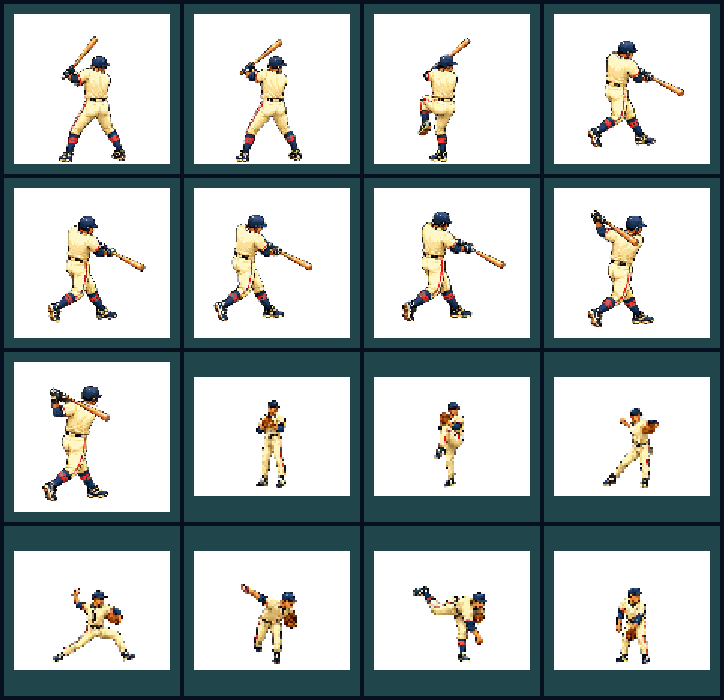
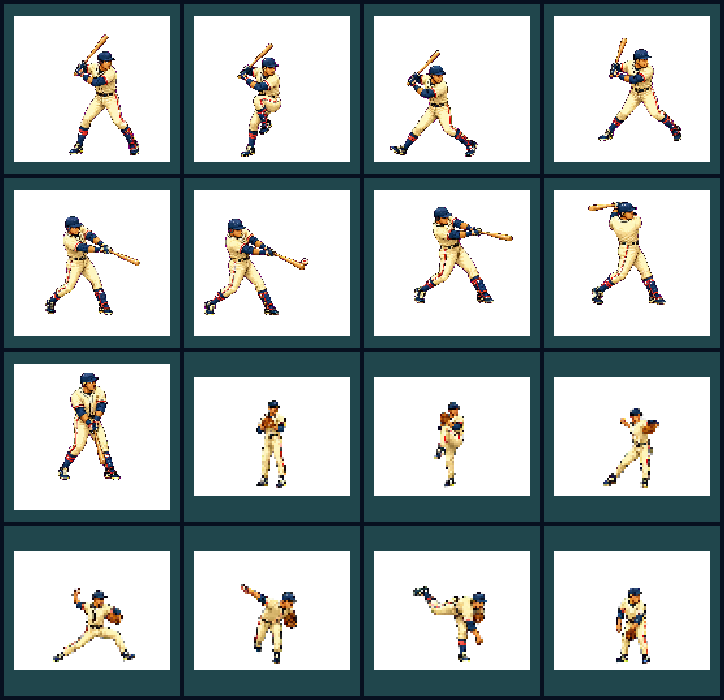
Match classic pitcher-batter camera

diff --git a/prototypes/diamond-dynasty/art-review.html b/prototypes/diamond-dynasty/art-review.html
@@ -74,10 +74,10 @@
       }
       .field-batter {
         position: absolute;
-        left: 11.71875%;
-        top: 41.9643%;
-        width: 40.625%;
-        height: 44.6429%;
+        left: 52.734375%;
+        top: 47.321429%;
+        width: 46.875%;
+        height: 50%;
         image-rendering: pixelated;
         image-rendering: crisp-edges;
       }
@@ -180,16 +180,16 @@
   </head>
   <body>
     <main class="review">
-      <p class="eyebrow">ORIGINAL NINE-FRAME REAR-VIEW BATTER</p>
+      <p class="eyebrow">ORIGINAL NINE-FRAME PITCHER/BATTER CAMERA</p>
       <h1>BATTER ANIMATION REVIEW</h1>
-      <p class="lede">The field view uses a rear three-quarter camera behind the batter, looking toward the pitcher. The close view exposes the same native sprite frames at readable scale. Use game speed to judge the complete swing arc, slow review to inspect transitions, or choose any pose directly.</p>
+      <p class="lede">The field view uses a tight home-plate camera with a large side/back three-quarter batter beside the plate and a smaller pitcher downfield. The close view exposes the same native sprite frames at readable scale. Use game speed to judge the compact swing and held high finish, slow review to inspect transitions, or choose any pose directly.</p>
 
       <section class="views" aria-label="Synchronized batter animation views">
         <figure>
           <div class="field-stage">
-            <img class="field-batter" data-live-batter src="./art/sprites/batter-0.png" alt="Animated rear-view batter facing the pitcher">
+            <img class="field-batter" data-live-batter src="./art/sprites/batter-0.png" alt="Animated side-back batter facing the pitcher">
           </div>
-          <figcaption>BEHIND THE BATTER — FACING THE PITCHER</figcaption>
+          <figcaption>TIGHT HOME-PLATE CAMERA — FACING THE PITCHER</figcaption>
         </figure>
         <figure>
           <div class="close-stage">
@@ -216,11 +216,11 @@
         <button class="pose-button" type="button" data-frame="5" aria-pressed="false"><img src="./art/sprites/batter-5.png" alt="Contact pose"><span>6 CONTACT</span></button>
         <button class="pose-button" type="button" data-frame="6" aria-pressed="false"><img src="./art/sprites/batter-6.png" alt="Post-contact extension pose"><span>7 EXTEND</span></button>
         <button class="pose-button" type="button" data-frame="7" aria-pressed="false"><img src="./art/sprites/batter-7.png" alt="High follow-through pose"><span>8 FINISH</span></button>
-        <button class="pose-button" type="button" data-frame="8" aria-pressed="false"><img src="./art/sprites/batter-8.png" alt="Balanced finish hold pose"><span>9 HOLD</span></button>
+        <button class="pose-button" type="button" data-frame="8" aria-pressed="false"><img src="./art/sprites/batter-8.png" alt="Controlled reset pose"><span>9 RESET</span></button>
       </section>
 
-      <p class="timing-note">Game speed uses the live swing thresholds: 65 ms load, 60 ms stride, 55 ms plant, 55 ms swing, 55 ms contact, 65 ms extension, and 90 ms high finish, followed by a readable balanced hold.</p>
+      <p class="timing-note">Game speed uses the live swing thresholds: 70 ms load, 65 ms stride, 60 ms plant, 60 ms swing, 60 ms contact, 70 ms extension, then a readable high-finish hold before reset.</p>
     </main>
-    <script type="module" src="./src/animation-review.mjs?v=2"></script>
+    <script type="module" src="./src/animation-review.mjs?v=3"></script>
   </body>
 </html>

diff --git a/prototypes/diamond-dynasty/index.html b/prototypes/diamond-dynasty/index.html
@@ -8,7 +8,7 @@ Date: 2026-08-20 -->
     <meta name="viewport" content="width=device-width, initial-scale=1.0, viewport-fit=cover" />
     <meta name="theme-color" content="#071328" />
     <title>Diamond Dynasty '94 — Prototype</title>
-    <link rel="stylesheet" href="./style.css?v=sprite-art-v6" />
+    <link rel="stylesheet" href="./style.css?v=sprite-art-v7" />
   </head>
   <body>
     <main class="cabinet" aria-labelledby="game-title">
@@ -52,6 +52,6 @@ Date: 2026-08-20 -->
         Original code, characters, venue, sound synthesis, and pixel treatment. No MLB, Nintendo, or licensed game assets.
       </footer>
     </main>
-    <script type="module" src="./src/game.mjs?v=sprite-art-v6"></script>
+    <script type="module" src="./src/game.mjs?v=sprite-art-v7"></script>
   </body>
 </html>

diff --git a/prototypes/diamond-dynasty/CHARACTER_ART_COMPARISON.md b/prototypes/diamond-dynasty/CHARACTER_ART_COMPARISON.md
@@ -5,7 +5,8 @@
 ## Outcome
 
 The rejected procedural batter and pitcher have been replaced by sixteen
-original alpha sprites: nine rear-view batting frames and seven pitching frames.
+original alpha sprites: nine side/back three-quarter batting frames and seven
+pitching frames.
 Each frame is a curated native-scale reduction of the original concept sheets
 in `art/concepts/`, built reproducibly by
 `tools/build-player-sprites.sh`. The figures now use coherent full-body
@@ -14,7 +15,7 @@ volume, uniform folds, equipment, and frame-specific foreshortening. No sprite,
 palette, logo, uniform, name, or player likeness was extracted from a
 commercial game.
 
-![Side-by-side character comparison](screenshots/character-comparison-v2.png)
+![Side-by-side camera comparison](screenshots/character-comparison-v3.png)
 
 The left side is a reference-only gameplay capture from *Ken Griffey Jr.
 Presents Major League Baseball* (1994). It is included only for visual critique
@@ -25,7 +26,7 @@ independently identifies the title and its native SNES screenshots.
 
 ## Animation evidence
 
-![Nine rear-view batter and seven pitcher animation states](screenshots/character-animation-sheet-v3.png)
+![Nine camera-facing batter and seven pitcher animation states](screenshots/character-animation-sheet-v3.png)
 
 ![Looping batter animation at corrected gameplay placement](screenshots/batter-animation.gif)
 
@@ -43,7 +44,7 @@ checks rather than assigning itself a replacement score.
 | Limb volume | Arms and legs use highlight, base, shadow, and crease clusters rather than constant-width procedural segments. |
 | Frame-specific motion | Weight transfer, leg lift, stride, release, bat extension, and follow-through alter the complete silhouette. |
 | Uniform and equipment | Fictional cream, navy, and coral uniform; belt, cuffs, socks, cleats, batting gloves, helmet, bat, ball, and glove. |
-| Pixel integrity | Sixteen alpha PNGs are fixed at `104×100` or `76×58`, rendered on integer coordinates with smoothing disabled; Pixel-Bench 0.1.0 reports all sixteen as native 1x pixel art. |
+| Pixel integrity | Sixteen alpha PNGs are fixed at `120×112` or `76×58`, rendered on integer coordinates with smoothing disabled; Pixel-Bench 0.1.0 reports all sixteen as native 1x pixel art. |
 | Originality | Original AI-assisted concept and fictional character; no traced or extracted commercial sprite pixels. |
 
 The reference uses licensed team presentation and dense blue pinstripes;
@@ -54,24 +55,25 @@ animation readability, not a trace or one-to-one replica.
 ## Animation inventory
 
 - Batter: ready, load, stride, plant, swing, contact, extension, high finish,
-  balanced finish hold
+  controlled reset, with the high finish held before reset
 - Pitcher: set, leg lift, balance, stride, release, follow-through, recover
-- Gameplay staging: a rear three-quarter batter stands behind the left side of
-  the plate, faces the pitcher, and completes the swing; the catcher is omitted
+- Gameplay staging: a large side/back three-quarter batter stands beside the
+  right batter's box, faces the smaller downfield pitcher, and completes the
+  swing; the catcher is omitted
 
 ## Concept-art pass
 
 The built-in image generation tool produced
-`art/concepts/original-batter-rear-swing-concept-v5.png` using the existing
+`art/concepts/original-batter-side-swing-concept-v6.png` using the existing
 character sheet as its style and identity reference. The selected concept was
 chroma-keyed, cropped, nearest-neighbour reduced, and curated into the sixteen
 runtime PNGs in `art/sprites/`.
 
 Final prompt, condensed only for line wrapping:
 
-> Replace the top-row batter with nine evenly spaced rear three-quarter poses:
+> Rebuild the batter as nine evenly spaced side/back three-quarter poses:
 > ready, load, stride, heel plant, swing, contact, extension, high follow-through,
-> and a balanced held finish. Keep the fictional cream, navy, and coral player,
-> hard 16-bit pixel clusters, identical scale and baseline, flat magenta key,
-> and complete uncropped bats; no real likeness, logo, text, watermark, copied
+> and controlled reset. Keep the fictional cream, navy, and coral player, hard
+> 16-bit pixel clusters, identical scale and baseline, flat magenta key, and
+> complete uncropped bats; no real likeness, logo, text, watermark, copied
 > commercial sprite, catcher, field, overlap, blur, or antialiasing.

diff --git a/prototypes/diamond-dynasty/README.md b/prototypes/diamond-dynasty/README.md
@@ -46,8 +46,9 @@ node --test tests/*.test.mjs
 - Balls, strikes, walks, strikeouts, outs, innings, hits, runners, and scoring
 - Timing-plus-location contact model with foul, out, single, double, triple,
   and home-run outcomes
-- Nine-state original rear-view batter animation, staged behind the left side
-  of the plate and facing the pitcher, plus a seven-state pitcher delivery
+- Nine-state original side/back three-quarter batter animation in a tight
+  home-plate camera, staged beside the right side of the plate and facing the
+  pitcher, plus a seven-state pitcher delivery
 - Dedicated batter animation review with synchronized field/close views and a
   reproducible looping GIF
 - Original synthesized arcade sound cues

diff --git a/prototypes/diamond-dynasty/REPORT.md b/prototypes/diamond-dynasty/REPORT.md
@@ -53,7 +53,7 @@ defence, team depth, broadcast transitions, and a complete game loop remain.
 - Desktop rendered canvas observed: `752×656`, no horizontal overflow
 - Live desktop gameplay and swing workflow: no console errors or warnings
 - Pitch repertoire: 3 pitches, 79–95 MPH, distinct duration and break
-- Batter animation: 9 rear-view frame states with held follow-through; pitcher
+- Batter animation: 9 side/back frame states with held high follow-through; pitcher
   animation: 7 frame states
 - Character-detail evidence: reference comparison plus sixteen-pose sheet;
   no self-assigned or external rating
